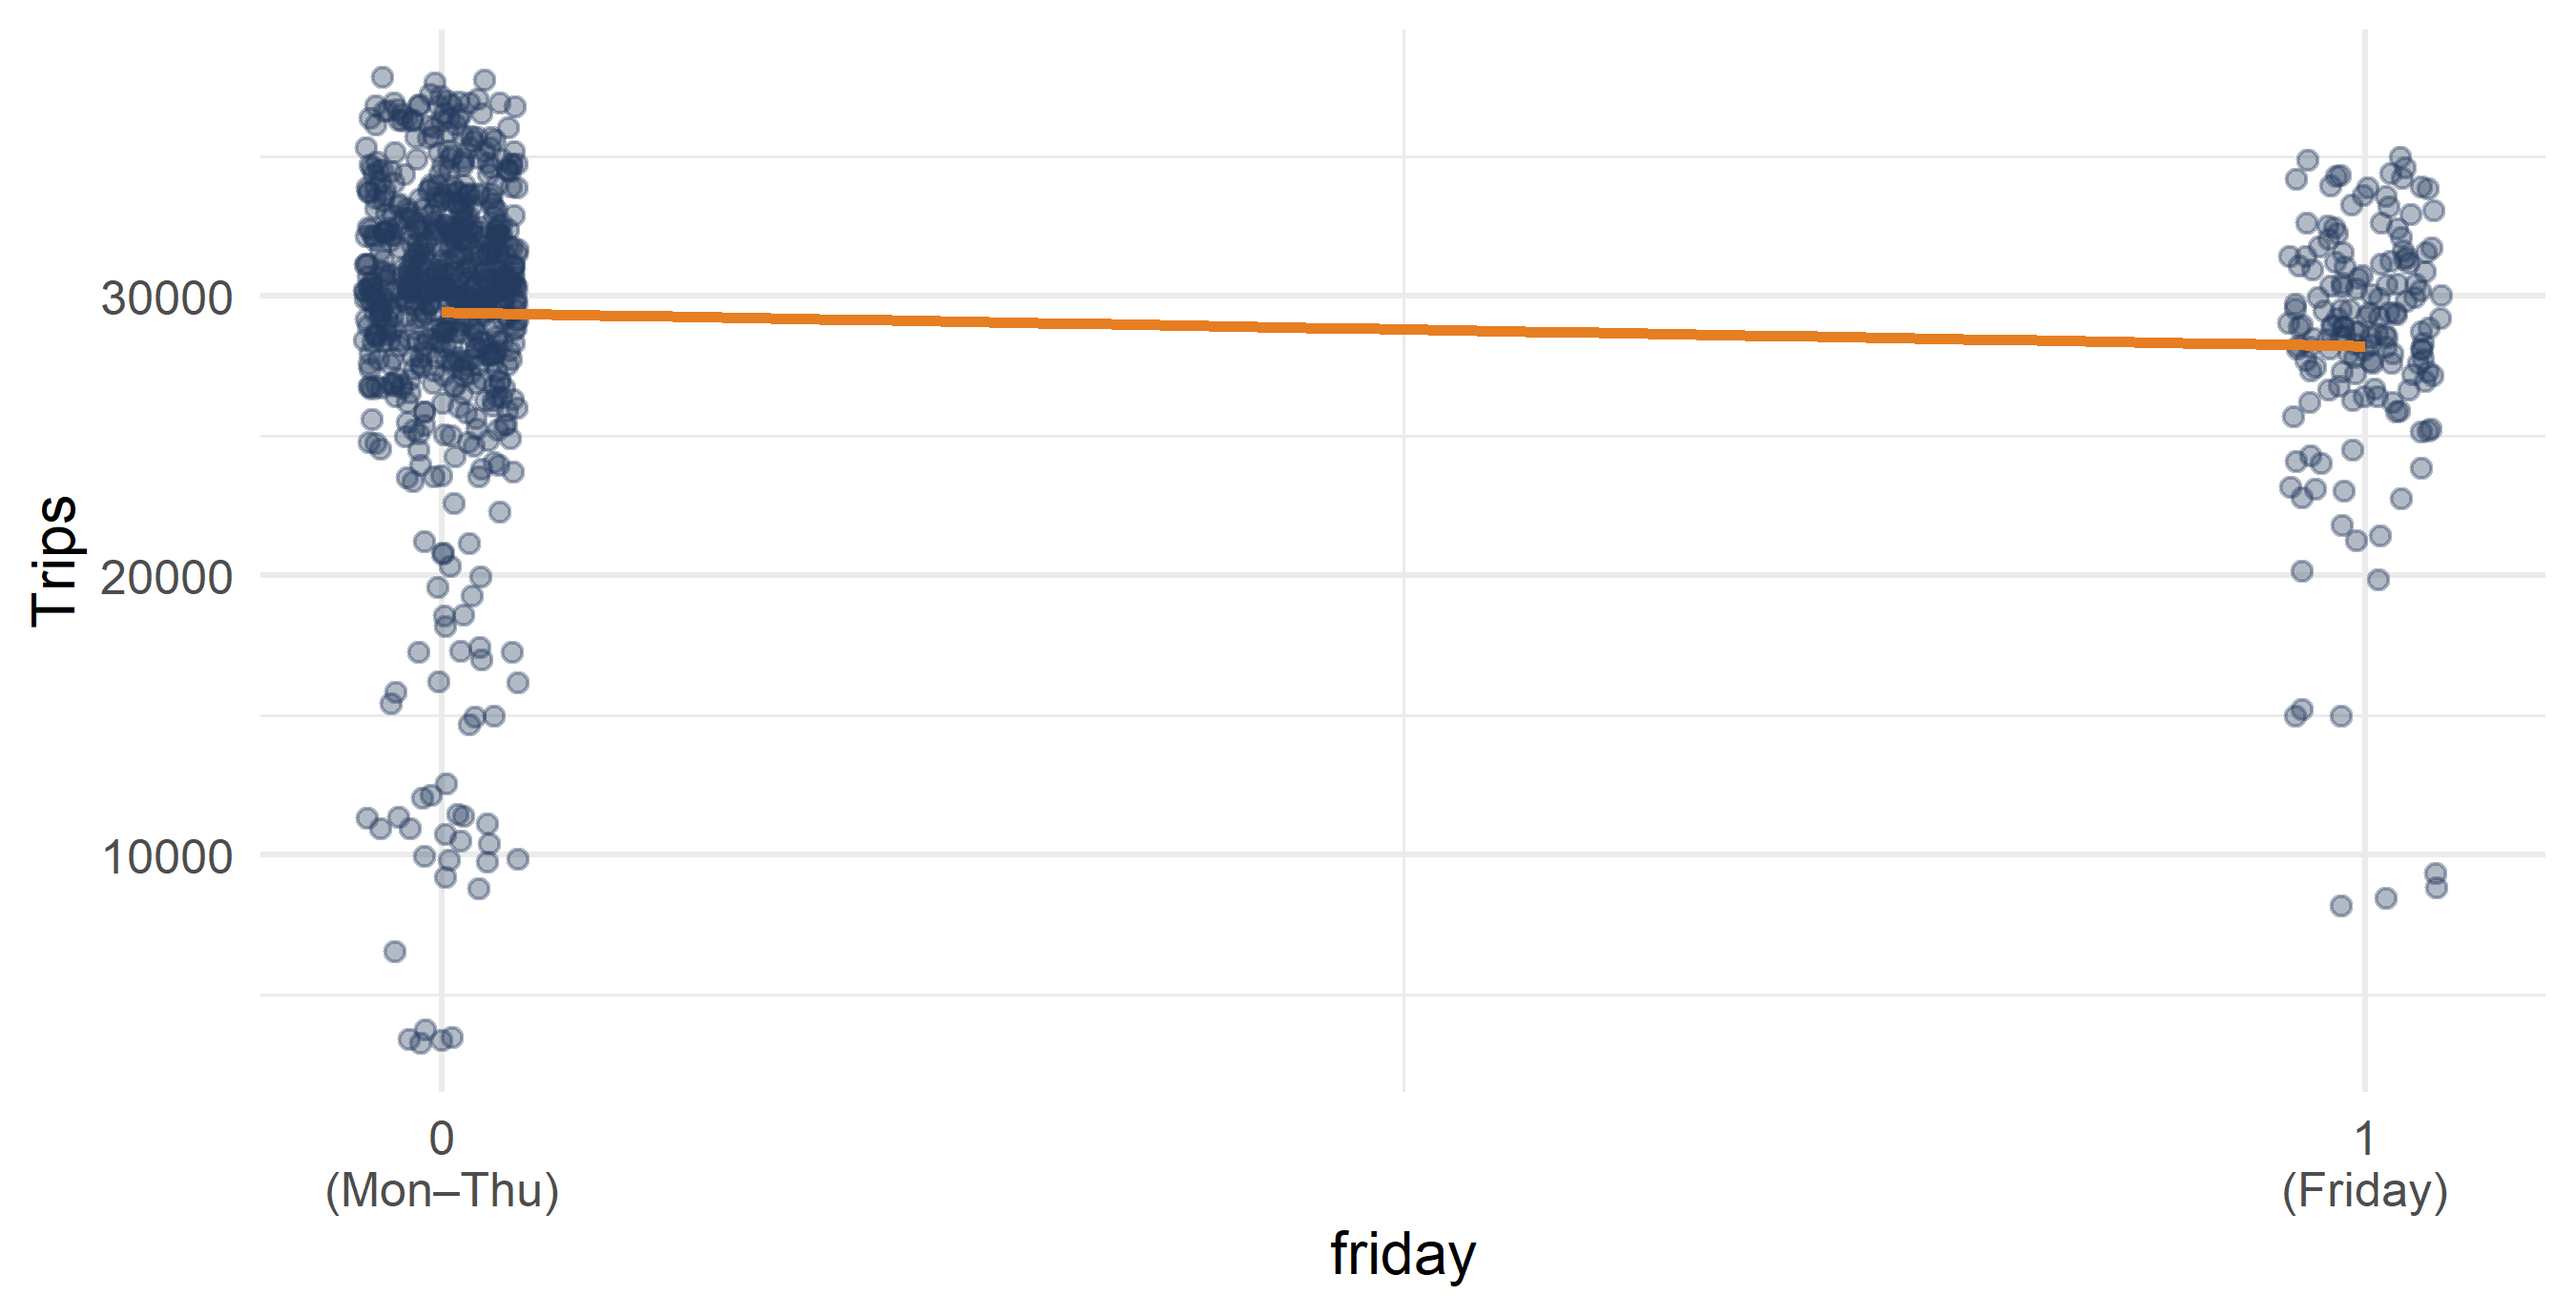
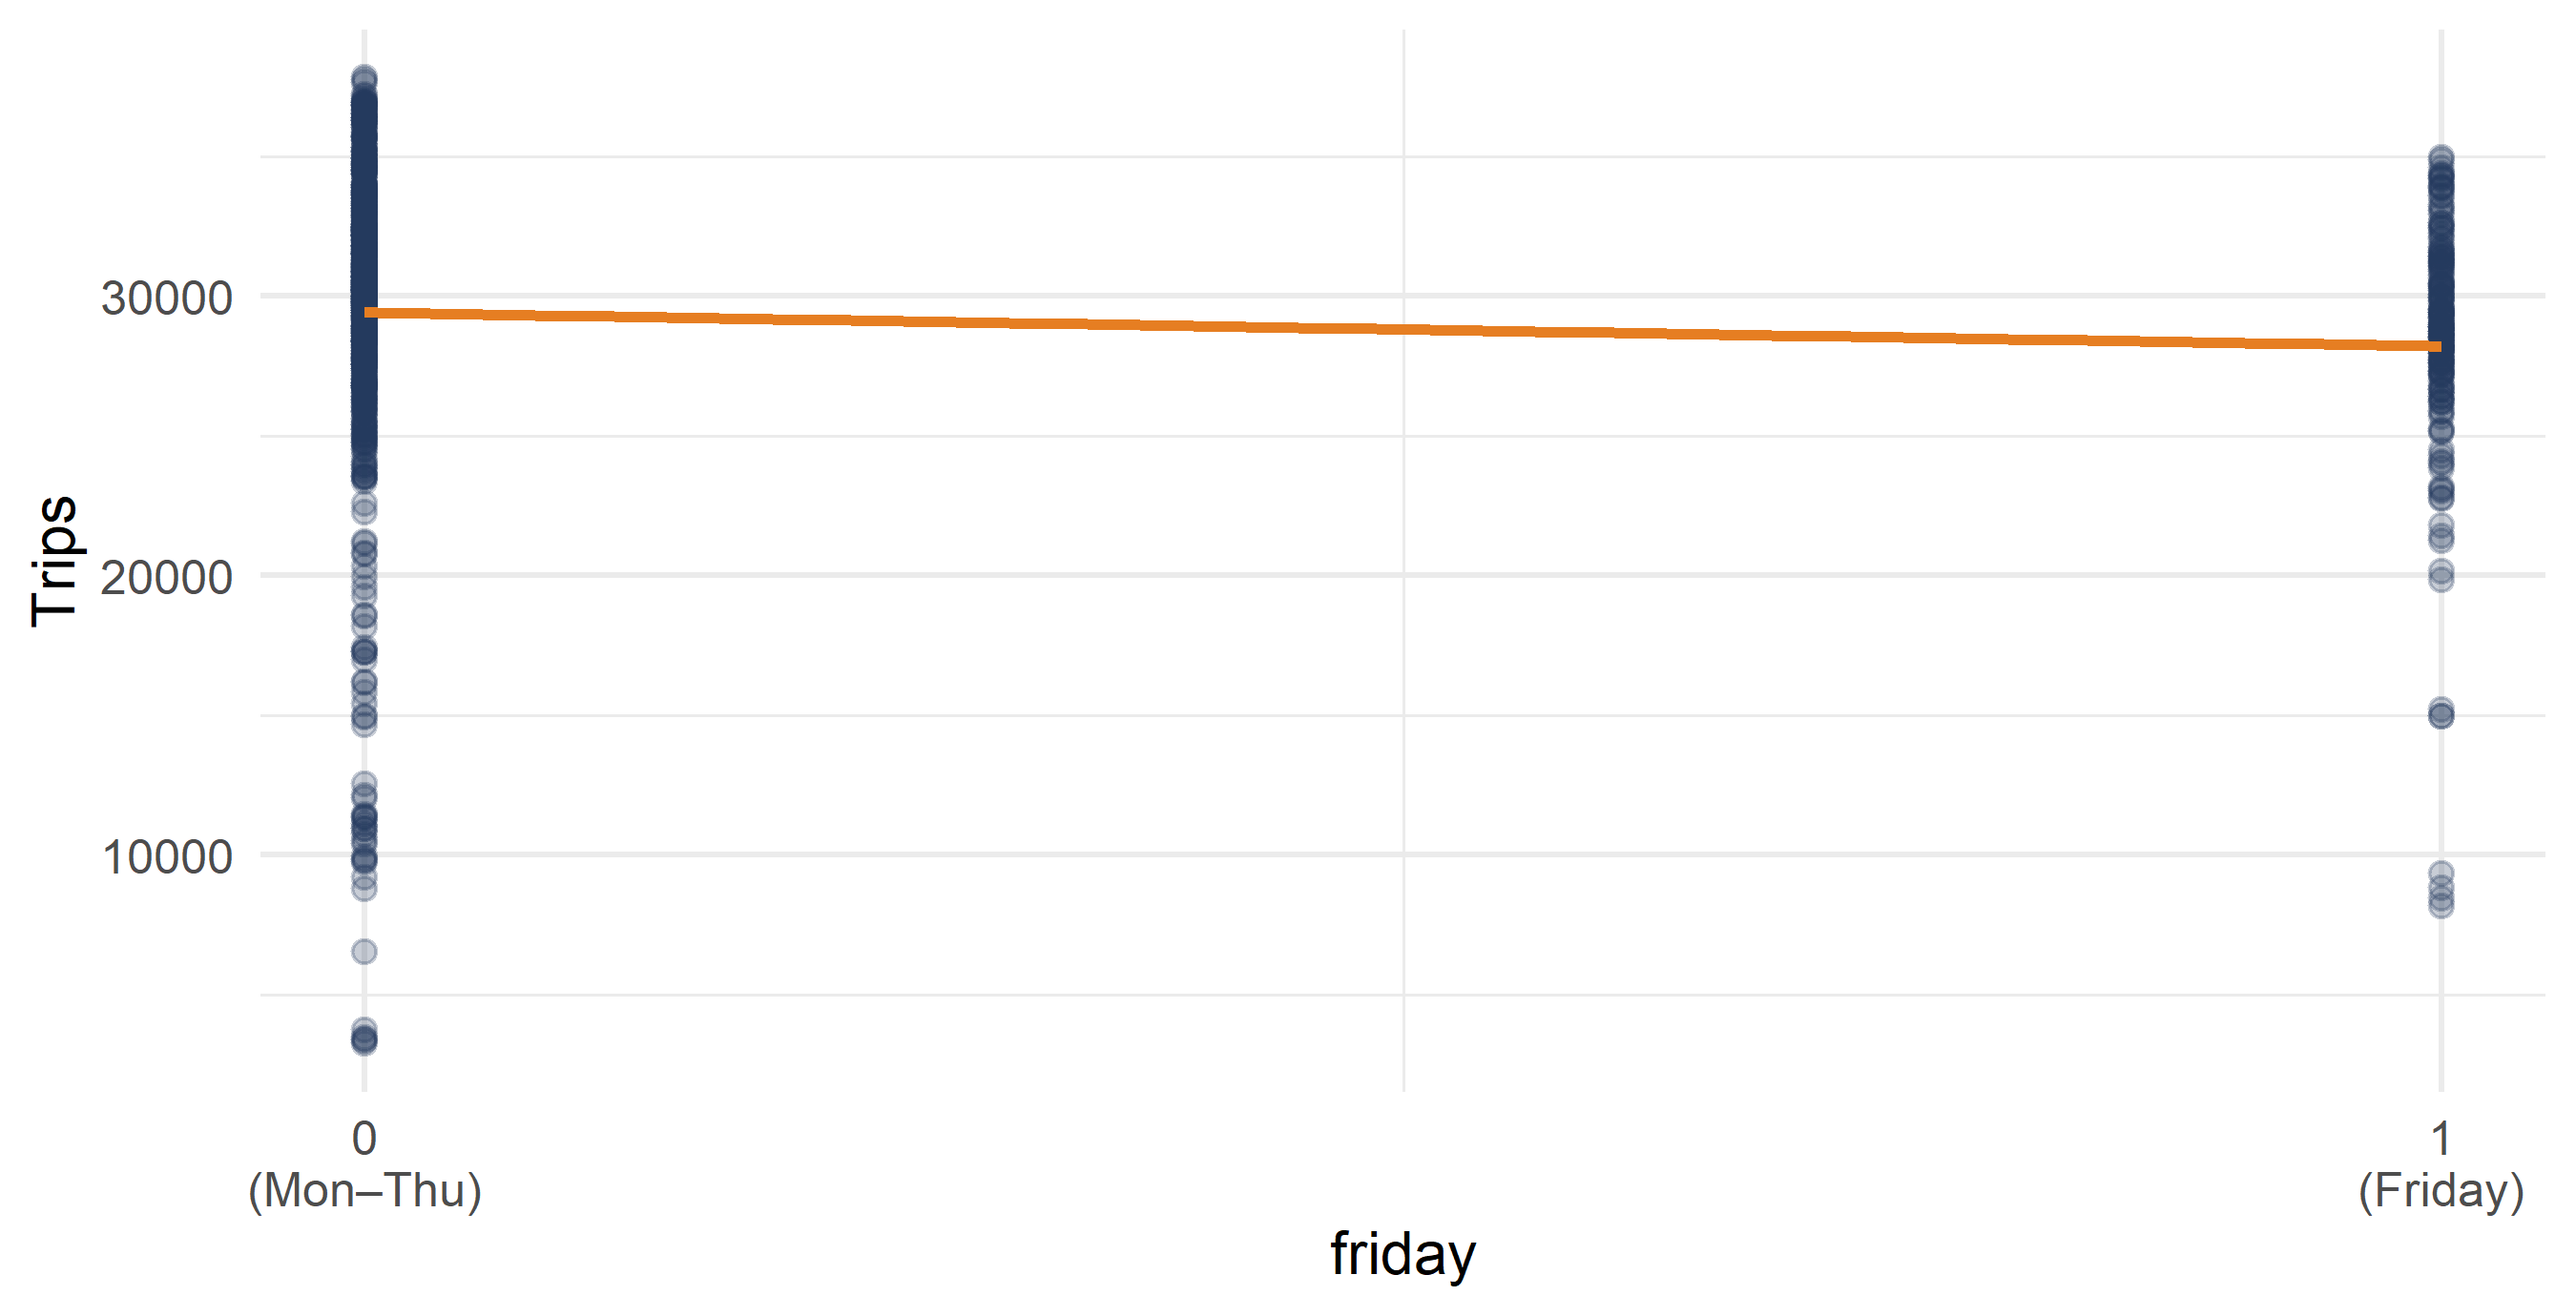
W07: SSE parabola on the OLS slide; binary scatterplots without jitter

diff --git a/Live/W07/W07_live.html b/Live/W07/W07_live.html
@@ -744,6 +744,18 @@ eyJhdHRyIjp7ImVkaXQiOnRydWUsImV2YWwiOnRydWUsImV4ZXJjaXNlIjoiZXgyIiwicGVyc2lzdCI6
 </ul>
 </div>
 <div class="fragment">
+<div class="cell">
+<div class="cell-output-display">
+<div>
+<figure>
+<p><img data-src="W07_live_files/figure-revealjs/sse-parabola-1.png" style="width:100.0%"></p>
+</figure>
+</div>
+</div>
+</div>
+<p>The same 21 points as the sliders, with the intercept held at its best value (4.42). Each grey dot is one slope you could try. The sum is a parabola in <span class="math inline">\(\hat{\beta}_1\)</span>, so it has exactly one lowest point.</p>
+</div>
+<div class="fragment">
 <p>This is ordinary least squares — OLS. The line that minimises this sum is the regression line.</p>
 </div>
 </section>
@@ -1551,7 +1563,6 @@ eyJhdHRyIjp7ImVkaXQiOnRydWUsImV2YWwiOnRydWUsImV4ZXJjaXNlIjoiZXgxMyIsInBlcnNpc3Qi
 </div>
 </div>
 <ul>
-<li class="fragment">The dots are nudged up and down a little so you can see how many there are.</li>
 <li class="fragment">The top line thins out as the rating rises. The bottom line fills up.</li>
 <li class="fragment">The orange line is the ordinary least-squares fit.</li>
 </ul>
